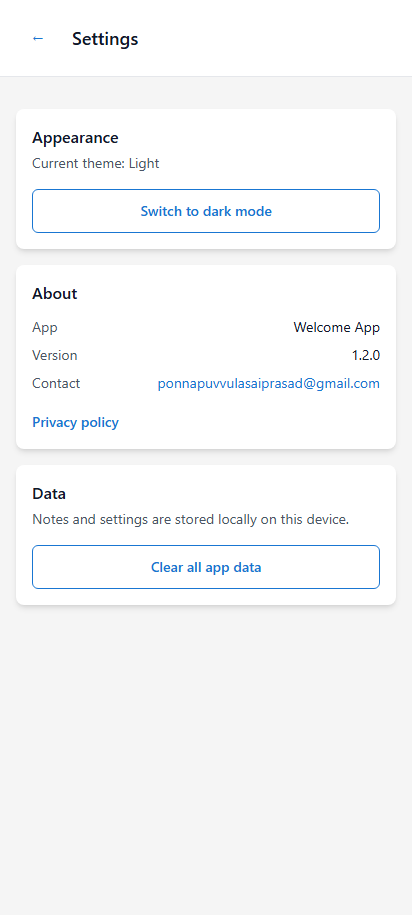
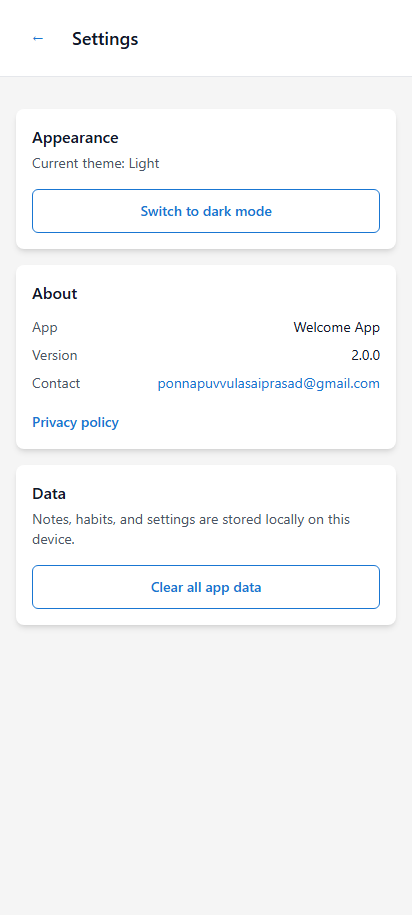
Phase 4: bottom nav, dashboard widget, dark mode polish, v2.0.0
Replace temporary TrackerNav with persistent bottom tabs on main screens,
add a live progress dashboard widget, sync StatusBar with theme, and bump
to version 2.0.0 for Play Store release.

diff --git a/e2e/phase4-navigation.spec.ts b/e2e/phase4-navigation.spec.ts
@@ -1,0 +1,60 @@
+import { expect, test } from '@playwright/test'
+
+const CREDENTIALS = {
+  email: 'admin@example.com',
+  password: 'password123',
+}
+
+async function signIn(page: import('@playwright/test').Page) {
+  await page.goto('/#/')
+  await page.evaluate(() => localStorage.clear())
+  await page.getByLabel('Email').fill(CREDENTIALS.email)
+  await page.getByLabel('Password').fill(CREDENTIALS.password)
+  await page.getByRole('button', { name: 'Sign in' }).click()
+  await expect(page.getByRole('heading', { name: /Welcome, admin/i })).toBeVisible()
+}
+
+test.describe('Phase 4: Bottom nav & dashboard widget', () => {
+  test('shows bottom nav on main tabs and hides on settings', async ({ page }) => {
+    await signIn(page)
+
+    const bottomNav = page.getByRole('navigation', { name: 'Main navigation' })
+    await expect(bottomNav).toBeVisible()
+    await expect(bottomNav.getByRole('tab', { name: 'Home' })).toHaveAttribute('aria-selected', 'true')
+
+    await bottomNav.getByRole('tab', { name: 'Today' }).click()
+    await expect(page.getByRole('heading', { name: 'Today' })).toBeVisible()
+    await expect(bottomNav.getByRole('tab', { name: 'Today' })).toHaveAttribute('aria-selected', 'true')
+
+    await bottomNav.getByRole('tab', { name: 'Calendar' }).click()
+    await expect(page.getByRole('heading', { name: 'Calendar' })).toBeVisible()
+
+    await bottomNav.getByRole('tab', { name: 'Habits' }).click()
+    await expect(page.getByRole('heading', { name: 'Habits' })).toBeVisible()
+
+    await bottomNav.getByRole('tab', { name: 'Home' }).click()
+    await page.getByRole('link', { name: /Settings/i }).click()
+    await expect(page.getByRole('heading', { name: 'Settings' })).toBeVisible()
+    await expect(bottomNav).toHaveCount(0)
+  })
+
+  test('dashboard widget shows today progress after adding a habit', async ({ page }) => {
+    await signIn(page)
+
+    await page.getByRole('link', { name: /Build daily habits/i }).click()
+    await page.getByRole('button', { name: /Meditate 10 min/i }).click()
+    await page.getByRole('button', { name: /Meditate 10 min, not completed/i }).click()
+
+    await page.getByRole('tab', { name: 'Home' }).click()
+    await expect(page.getByRole('heading', { name: /Welcome, admin/i })).toBeVisible()
+    await expect(page.getByLabel(/Daily Tracker — All habits done today/i)).toBeVisible()
+    await expect(page.getByRole('img', { name: /1 of 1 habits completed/i })).toBeVisible()
+  })
+
+  test('settings shows version 2.0.0', async ({ page }) => {
+    await signIn(page)
+
+    await page.getByRole('link', { name: /Settings/i }).click()
+    await expect(page.getByText('2.0.0')).toBeVisible()
+  })
+})

diff --git a/src/components/dashboard/TrackerDashboardWidget.tsx b/src/components/dashboard/TrackerDashboardWidget.tsx
@@ -1,0 +1,56 @@
+import { Link } from 'react-router-dom'
+import { ProgressRing } from '../habits/ProgressRing'
+import { ROUTES } from '../../constants/routes'
+import { useTodayTracker } from '../../hooks/useTodayTracker'
+
+export function TrackerDashboardWidget() {
+  const { habits, progress } = useTodayTracker()
+
+  if (habits.length === 0) {
+    return (
+      <Link
+        to={ROUTES.TODAY}
+        className="flex items-start gap-4 rounded-lg border border-gray-200 bg-surface p-4 shadow-sm transition-colors hover:border-primary hover:bg-blue-50/50 dark:border-gray-700 dark:hover:bg-gray-800"
+      >
+        <span
+          className="flex h-11 w-11 shrink-0 items-center justify-center rounded-lg bg-primary/10 text-xl"
+          aria-hidden="true"
+        >
+          📅
+        </span>
+        <div>
+          <h2 className="font-medium text-gray-900 dark:text-gray-100">Daily Tracker</h2>
+          <p className="mt-1 text-sm text-gray-600 dark:text-gray-400">
+            Build daily habits with a simple checklist
+          </p>
+        </div>
+      </Link>
+    )
+  }
+
+  const statusLabel =
+    progress.percent === 100
+      ? 'All habits done today'
+      : progress.completed === 0
+        ? `${habits.length} habit${habits.length === 1 ? '' : 's'} waiting`
+        : `${progress.completed} of ${progress.total} done today`
+
+  return (
+    <Link
+      to={ROUTES.TODAY}
+      className="flex items-center gap-4 rounded-lg border border-gray-200 bg-surface p-4 shadow-sm transition-colors hover:border-primary hover:bg-blue-50/50 dark:border-gray-700 dark:hover:bg-gray-800"
+      aria-label={`Daily Tracker — ${statusLabel}`}
+    >
+      <ProgressRing
+        size="sm"
+        percent={progress.percent}
+        completed={progress.completed}
+        total={progress.total}
+      />
+      <div className="min-w-0 flex-1">
+        <h2 className="font-medium text-gray-900 dark:text-gray-100">Daily Tracker</h2>
+        <p className="mt-1 text-sm text-gray-600 dark:text-gray-400">{statusLabel}</p>
+      </div>
+    </Link>
+  )
+}

diff --git a/src/components/layout/BottomTabNav.tsx b/src/components/layout/BottomTabNav.tsx
@@ -1,0 +1,42 @@
+import { Link, useLocation } from 'react-router-dom'
+import { BOTTOM_NAV_TABS } from '../../constants/navigation'
+
+export function BottomTabNav() {
+  const location = useLocation()
+
+  return (
+    <nav
+      aria-label="Main navigation"
+      className="fixed inset-x-0 bottom-0 z-30 border-t border-gray-200 bg-surface/95 shadow-[0_-2px_10px_rgba(0,0,0,0.06)] backdrop-blur-sm dark:border-gray-700 dark:bg-surface/95 dark:shadow-none"
+    >
+      <div
+        className="mx-auto flex max-w-md pb-[env(safe-area-inset-bottom)]"
+        role="tablist"
+      >
+        {BOTTOM_NAV_TABS.map((tab) => {
+          const isActive = location.pathname === tab.to
+
+          return (
+            <Link
+              key={tab.to}
+              to={tab.to}
+              role="tab"
+              aria-selected={isActive}
+              aria-current={isActive ? 'page' : undefined}
+              className={`flex min-h-14 flex-1 flex-col items-center justify-center gap-0.5 px-1 py-2 text-xs font-medium transition-colors ${
+                isActive
+                  ? 'text-primary'
+                  : 'text-gray-500 hover:text-gray-700 dark:text-gray-400 dark:hover:text-gray-200'
+              }`}
+            >
+              <span aria-hidden="true" className="text-lg leading-none">
+                {tab.icon}
+              </span>
+              <span>{tab.label}</span>
+            </Link>
+          )
+        })}
+      </div>
+    </nav>
+  )
+}

diff --git a/src/components/habits/ProgressRing.tsx b/src/components/habits/ProgressRing.tsx
@@ -2,11 +2,21 @@ interface ProgressRingProps {
   percent: number
   completed: number
   total: number
+  size?: 'sm' | 'md'
 }
 
-export function ProgressRing({ percent, completed, total }: ProgressRingProps) {
-  const radius = 52
-  const stroke = 10
+const SIZE_CONFIG = {
+  sm: { radius: 36, stroke: 7, fractionClass: 'text-lg', percentClass: 'text-[10px]' },
+  md: { radius: 52, stroke: 10, fractionClass: 'text-2xl', percentClass: 'text-xs' },
+} as const
+
+export function ProgressRing({
+  percent,
+  completed,
+  total,
+  size = 'md',
+}: ProgressRingProps) {
+  const { radius, stroke, fractionClass, percentClass } = SIZE_CONFIG[size]
   const normalizedRadius = radius - stroke / 2
   const circumference = normalizedRadius * 2 * Math.PI
   const strokeDashoffset = circumference - (percent / 100) * circumference
@@ -42,10 +52,10 @@ export function ProgressRing({ percent, completed, total }: ProgressRingProps) {
       </svg>
 
       <div className="absolute text-center">
-        <p className="text-2xl font-semibold text-gray-900 dark:text-gray-100">
+        <p className={`${fractionClass} font-semibold text-gray-900 dark:text-gray-100`}>
           {completed}/{total}
         </p>
-        <p className="text-xs text-gray-500 dark:text-gray-400">{percent}%</p>
+        <p className={`${percentClass} text-gray-500 dark:text-gray-400`}>{percent}%</p>
       </div>
     </div>
   )

diff --git a/src/pages/WelcomePage.tsx b/src/pages/WelcomePage.tsx
@@ -1,9 +1,9 @@
 import { LogoutButton } from '../components/auth/LogoutButton'
 import { DashboardCard } from '../components/dashboard/DashboardCard'
+import { TrackerDashboardWidget } from '../components/dashboard/TrackerDashboardWidget'
 import { Alert } from '../components/ui/Alert'
 import { ROUTES } from '../constants/routes'
 import { useAuth } from '../hooks/useAuth'
-import { useHabits } from '../hooks/useHabits'
 import { useNotes } from '../hooks/useNotes'
 import { AppLayout } from '../layouts/AppLayout'
 import logo from '../assets/logo.svg'
@@ -11,7 +11,6 @@ import logo from '../assets/logo.svg'
 export function WelcomePage() {
   const { user } = useAuth()
   const { notes } = useNotes()
-  const { habits } = useHabits()
 
   if (!user) {
     return null
@@ -43,16 +42,7 @@ export function WelcomePage() {
             Your space
           </h2>
 
-          <DashboardCard
-            to={ROUTES.TODAY}
-            title="Daily Tracker"
-            description={
-              habits.length > 0
-                ? `${habits.length} habit${habits.length === 1 ? '' : 's'} — tap to check in today`
-                : 'Build daily habits with a simple checklist'
-            }
-            icon="📅"
-          />
+          <TrackerDashboardWidget />
 
           <DashboardCard
             to={ROUTES.NOTES}

diff --git a/src/layouts/AppLayout.tsx b/src/layouts/AppLayout.tsx
@@ -1,5 +1,8 @@
 import type { ReactNode } from 'react'
+import { useLocation } from 'react-router-dom'
 import { AppHeader } from '../components/layout/AppHeader'
+import { BottomTabNav } from '../components/layout/BottomTabNav'
+import { BOTTOM_NAV_ROUTES } from '../constants/navigation'
 
 interface AppLayoutProps {
   children: ReactNode
@@ -14,16 +17,20 @@ export function AppLayout({
   backTo,
   align = 'center',
 }: AppLayoutProps) {
+  const location = useLocation()
+  const showBottomNav = BOTTOM_NAV_ROUTES.includes(location.pathname)
+
   return (
     <div className="flex min-h-screen flex-col bg-background">
       {title ? <AppHeader title={title} backTo={backTo} /> : null}
       <main
         className={`flex flex-1 px-4 py-8 ${
           align === 'center' ? 'items-center justify-center' : 'items-start justify-center'
-        }`}
+        } ${showBottomNav ? 'pb-24' : ''}`}
       >
         <div className="w-full max-w-md">{children}</div>
       </main>
+      {showBottomNav ? <BottomTabNav /> : null}
     </div>
   )
 }

diff --git a/src/pages/SettingsPage.tsx b/src/pages/SettingsPage.tsx
@@ -82,7 +82,7 @@ export function SettingsPage() {
         <section className="rounded-lg bg-surface p-4 shadow-md">
           <h2 className="font-medium text-gray-900 dark:text-gray-100">Data</h2>
           <p className="mt-1 text-sm text-gray-600 dark:text-gray-400">
-            Notes and settings are stored locally on this device.
+            Notes, habits, and settings are stored locally on this device.
           </p>
 
           <div className="mt-4">
@@ -96,7 +96,7 @@ export function SettingsPage() {
       <ConfirmDialog
         open={showClearConfirm}
         title="Clear all app data?"
-        message="This will delete your notes, profile session, and settings from this device. You will be signed out."
+        message="This will delete your habits, notes, profile session, and settings from this device. You will be signed out."
         confirmLabel={isClearing ? 'Clearing...' : 'Clear data'}
         destructive
         confirmDisabled={isClearing}

diff --git a/src/capacitor.ts b/src/capacitor.ts
@@ -1,9 +1,10 @@
 import { App as CapacitorApp } from '@capacitor/app'
 import { Capacitor } from '@capacitor/core'
 import { SplashScreen } from '@capacitor/splash-screen'
-import { StatusBar, Style } from '@capacitor/status-bar'
 import { ROUTES } from './constants/routes'
 import { rescheduleAllHabitReminders } from './services/habitReminderService'
+import { getStoredSettings } from './utils/settingsStorage'
+import { syncStatusBarTheme } from './utils/statusBar'
 
 export async function initializeNativeShell(): Promise<void> {
   if (!Capacitor.isNativePlatform()) {
@@ -11,8 +12,7 @@ export async function initializeNativeShell(): Promise<void> {
   }
 
   try {
-    await StatusBar.setStyle({ style: Style.Light })
-    await StatusBar.setBackgroundColor({ color: '#1976D2' })
+    await syncStatusBarTheme(getStoredSettings().theme)
     await SplashScreen.hide()
   } catch (error) {
     console.warn('Native shell initialization skipped:', error)

diff --git a/src/pages/HabitsPage.tsx b/src/pages/HabitsPage.tsx
@@ -1,10 +1,8 @@
 import { useState } from 'react'
 import { HabitForm, type HabitFormValues } from '../components/habits/HabitForm'
 import { HabitManageRow } from '../components/habits/HabitManageRow'
-import { TrackerNav } from '../components/habits/TrackerNav'
 import { Button } from '../components/ui/Button'
 import { ConfirmDialog } from '../components/ui/ConfirmDialog'
-import { ROUTES } from '../constants/routes'
 import { useHabits } from '../hooks/useHabits'
 import {
   cancelHabitReminder,
@@ -78,10 +76,8 @@ export function HabitsPage() {
   }
 
   return (
-    <AppLayout title="Habits" backTo={ROUTES.WELCOME} align="top">
+    <AppLayout title="Habits" align="top">
       <div className="space-y-4">
-        <TrackerNav />
-
         <p className="text-sm text-gray-600 dark:text-gray-400">
           Manage up to 8 active habits. Set daily reminders per habit on Android.
         </p>

diff --git a/src/pages/CalendarPage.tsx b/src/pages/CalendarPage.tsx
@@ -1,7 +1,5 @@
 import { CalendarGrid } from '../components/habits/CalendarGrid'
 import { DaySheet } from '../components/habits/DaySheet'
-import { TrackerNav } from '../components/habits/TrackerNav'
-import { ROUTES } from '../constants/routes'
 import { useCalendarTracker } from '../hooks/useCalendarTracker'
 import { AppLayout } from '../layouts/AppLayout'
 import { canEditHabitDate, formatMonthYear } from '../utils/dateUtils'
@@ -31,10 +29,8 @@ export function CalendarPage() {
   }
 
   return (
-    <AppLayout title="Calendar" backTo={ROUTES.WELCOME} align="top">
+    <AppLayout title="Calendar" align="top">
       <div className="space-y-4">
-        <TrackerNav />
-
         <p className="text-sm text-gray-600 dark:text-gray-400">
           Tap a day to review habits. Blue dot = all done, amber = partial, gray = none.
         </p>

diff --git a/src/pages/TodayPage.tsx b/src/pages/TodayPage.tsx
@@ -1,8 +1,6 @@
 import { useState } from 'react'
-import { TrackerNav } from '../components/habits/TrackerNav'
 import { ProgressRing } from '../components/habits/ProgressRing'
 import { TodayHabitList } from '../components/habits/TodayHabitList'
-import { ROUTES } from '../constants/routes'
 import { useHabits } from '../hooks/useHabits'
 import { useTodayTracker } from '../hooks/useTodayTracker'
 import { AppLayout } from '../layouts/AppLayout'
@@ -25,10 +23,8 @@ export function TodayPage() {
   }
 
   return (
-    <AppLayout title="Today" backTo={ROUTES.WELCOME} align="top">
+    <AppLayout title="Today" align="top">
       <div className="space-y-6">
-        <TrackerNav />
-
         <header className="text-center">
           <p className="text-sm text-gray-600 dark:text-gray-400">{formatDisplayDate()}</p>
         </header>

diff --git a/src/utils/statusBar.ts b/src/utils/statusBar.ts
@@ -1,0 +1,25 @@
+import { Capacitor } from '@capacitor/core'
+import { StatusBar, Style } from '@capacitor/status-bar'
+import type { ThemeMode } from '../types/settings'
+
+const LIGHT_BAR_COLOR = '#1976D2'
+const DARK_BAR_COLOR = '#121212'
+
+export async function syncStatusBarTheme(theme: ThemeMode): Promise<void> {
+  if (!Capacitor.isNativePlatform()) {
+    return
+  }
+
+  try {
+    if (theme === 'dark') {
+      await StatusBar.setStyle({ style: Style.Dark })
+      await StatusBar.setBackgroundColor({ color: DARK_BAR_COLOR })
+      return
+    }
+
+    await StatusBar.setStyle({ style: Style.Light })
+    await StatusBar.setBackgroundColor({ color: LIGHT_BAR_COLOR })
+  } catch {
+    // Status bar may be unavailable on some devices
+  }
+}
